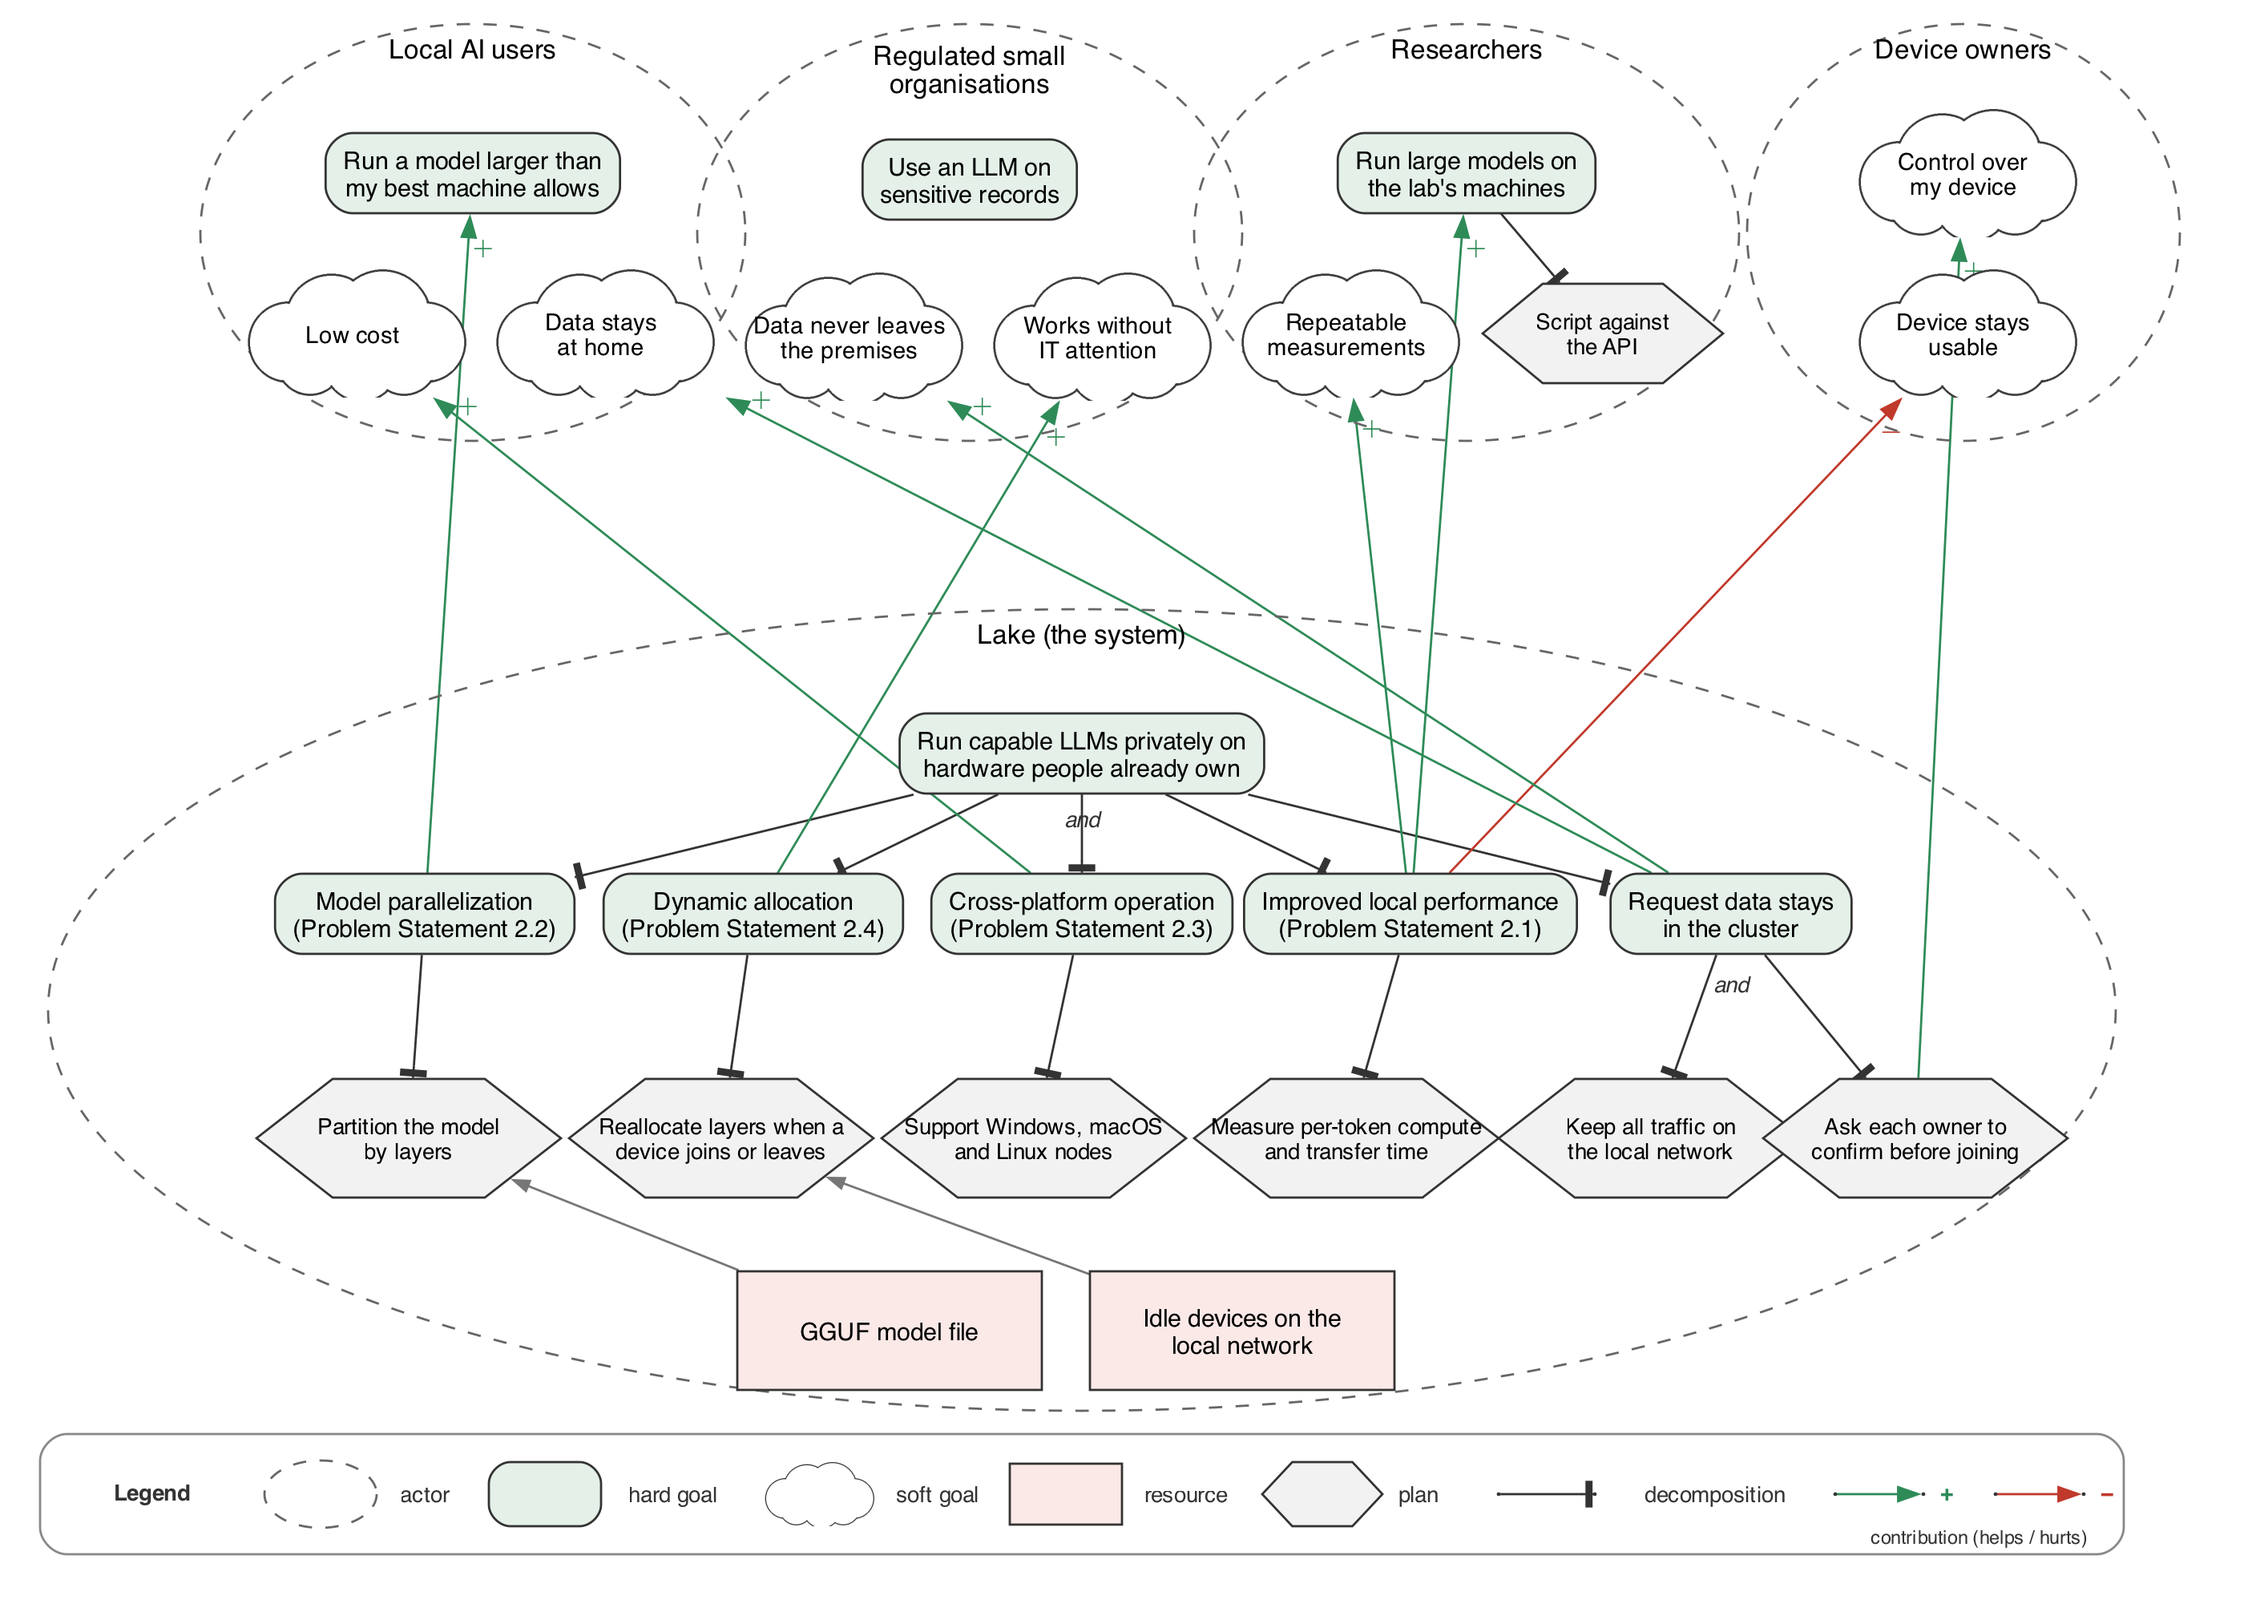
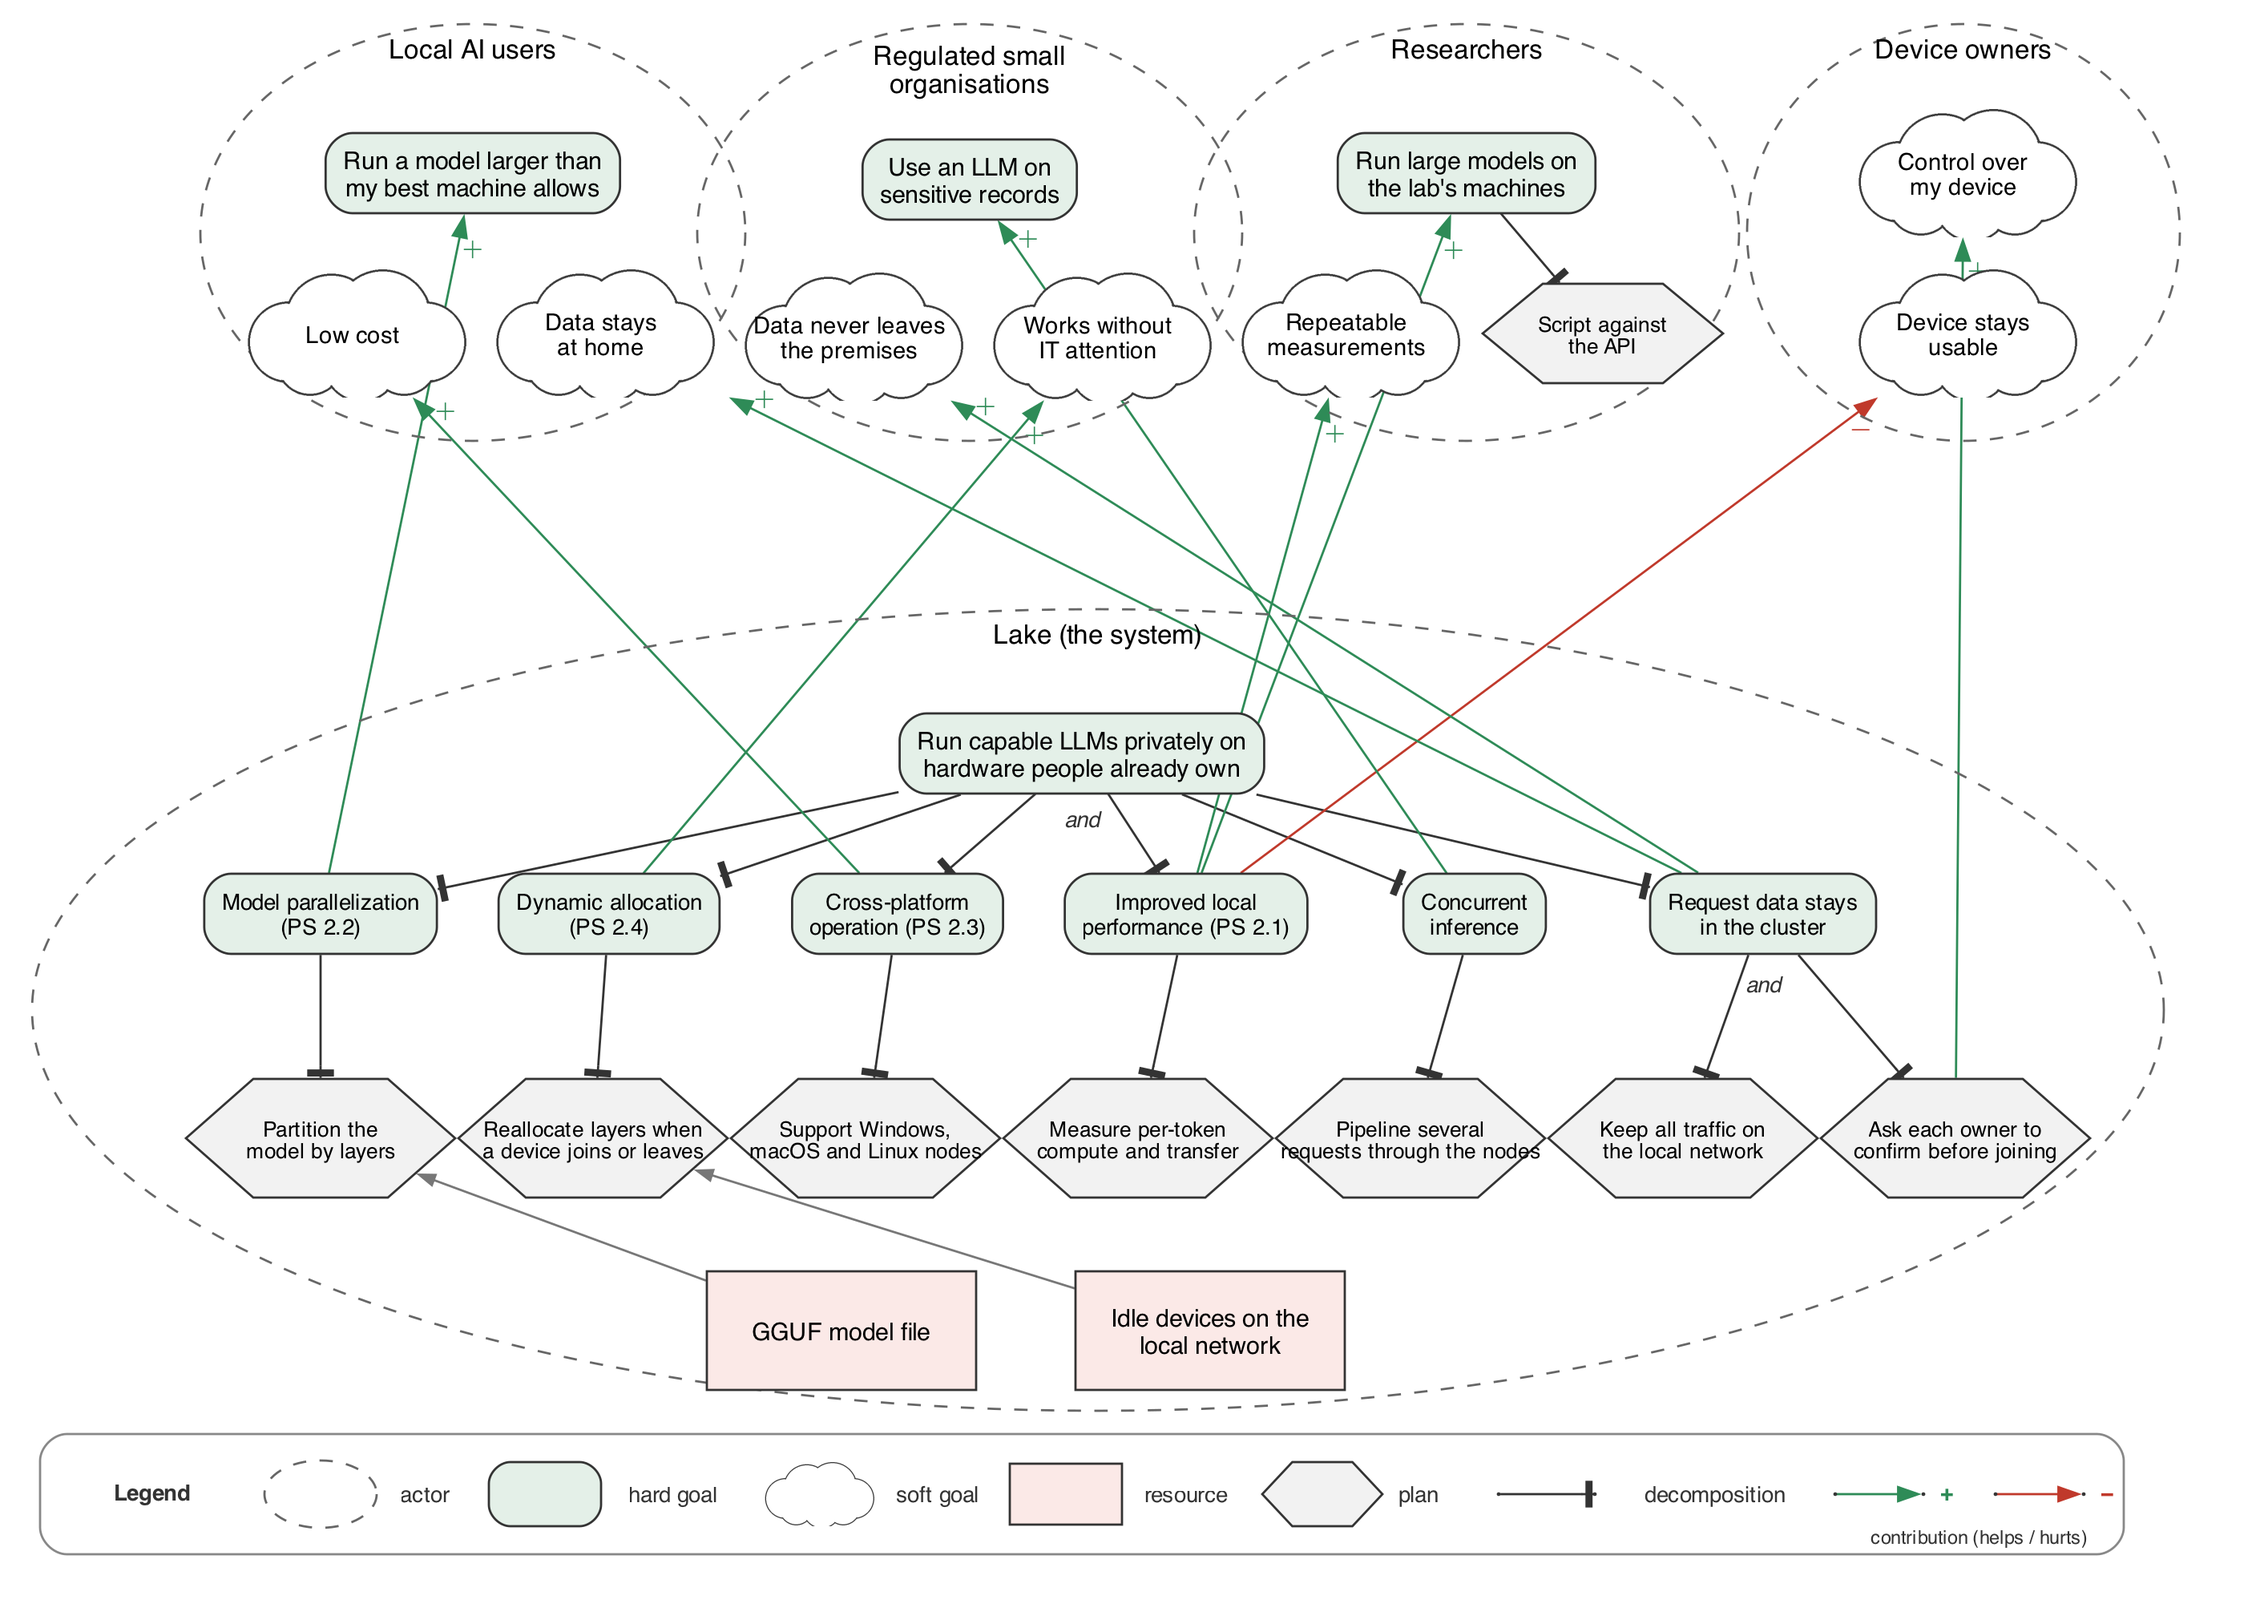
docs(SRS): treat concurrent inference as a goal in the Goals chapter
Matt proposed promoting Concurrent Inference from a stretch goal and Jinwoo
agreed (tracked in #149). Add it as a benefit in G.3 with its measure, note
in FR-G4-1-3 that several requests can be in flight, remove the
one-request-at-a-time exclusion from G.6, and add the goal and its plan to
the goal model.

diff --git a/docs/SRS/SRS.tex b/docs/SRS/SRS.tex
@@ -240,12 +240,11 @@ Mixed operating systems in one pool & N/A & N/A & Partly & Windows, macOS, Linux
 
 \subsection{Expected Benefits}\label{subsec:expected-benefits}
 
-The benefits below follow the four goals in the Problem Statement.
-Figure~\ref{fig:goal-model} is a goal model in the notation used in the
-requirements course: actors are dashed ellipses, hard goals rounded boxes,
-soft goals clouds, plans hexagons, and resources rectangles. Lines with a
-bar are AND decompositions, and green or red arrows show a Lake goal helping
-or hurting a stakeholder's goal. Each benefit below states the measure we
+The benefits below follow the four goals in the Problem Statement, plus
+concurrent inference, which the team is moving from a stretch goal to a
+goal because serving several requests at once is one of the main advantages
+of splitting a model by layers.
+Figure~\ref{fig:goal-model} is a goal model thats reflects this. Each benefit below states the measure we
 will use to check it, and the requirements that deliver them are in
 Section~\ref{subsec:functionality}.
 
@@ -295,12 +294,21 @@ chat interfaces and coding assistants can point at Lake instead of a cloud
 service with no changes on their side. The measure is an unmodified
 third-party client completing a session against Lake.
 
+\subsubsection*{Several users at once}
+While one request's token is being computed on one node, another request's
+token can be computed on the next, so a cluster can serve several users
+without each one waiting for the others. The measure is the number of
+requests the cluster can serve at once before any single request slows by
+more than the tolerance set in the Scalability requirement in
+Section~\ref{subsec:functionality}, and how that number grows with the
+number of nodes.
+
 \subsubsection*{Speed, where the split allows it}
-Response time and throughput (tokens per second) are secondary measures. A
-split model is not expected to beat a single device on a model that already
-fits on that device, since every token still passes through every layer in
-order. The gain is in capacity, and in throughput when several requests are
-served at once. The practitioner we interviewed (see
+Response time and throughput (tokens per second) for a single request are
+secondary measures. A split model is not expected to beat a single device
+on a model that already fits on that device, since every token still passes
+through every layer in order. The gain is in capacity, and in throughput
+when several requests are served at once. The practitioner we interviewed (see
 Section~\ref{subsubsec:g7-sources}) expected the same: a split over an office
 network would likely be slower than one good GPU for live chat, but worth it
 for background work such as re-indexing documents, OCR, and overnight test
@@ -333,7 +341,8 @@ Section~\ref{subsec:functionality}.
     node to node in layer order, and generated tokens stream back to the user
     one at a time. Each node keeps the key-value (KV) cache for its own
     layers, so nothing about the conversation has to be re-sent between
-    tokens.
+    tokens. Several requests can be in flight at once, each at a different
+    node, and their state is kept apart.
     \item \label{FR-G4-1-4}\textbf{FR-G4-1-4 Reallocate when the cluster
     changes.} When a node leaves, fails, or joins, the leader re-partitions
     the model across the nodes that remain and resumes serving, retrying any
@@ -533,6 +542,17 @@ Section~\ref{subsec:detailed-usage-scenarios}.
         \item The operator decides whether to swap a cable, remove a
         computer, or add one.
     \end{itemize}
+
+    \item \label{UC8}\textbf{UC8 Serve several users at once}
+    \begin{itemize}
+        \item Two or more users send prompts to the same cluster at the same
+        time, from their own tools.
+        \item Each sees their own response stream back, and none sees
+        another's prompt or answer.
+        \item Each response arrives about as fast as it would have alone,
+        until the cluster is busy enough that the operator sees requests
+        queue in the cluster view.
+    \end{itemize}
 \end{enumerate}
 
 \subsection{Limitations and Exclusions}\label{subsec:limitations-and-exclusions}
@@ -562,10 +582,6 @@ the System chapter record which of these may change.
     \item \emph{Wired connections first.} The first revision targets wired
     Ethernet. Wireless operation is a stretch goal because its latency and
     variability may make the split model too slow.
-    \item \emph{One request at a time.} Serving several users at once is a
-    stretch goal. The first release handles requests one after another; the
-    requirements in Section~\ref{subsec:functionality} that cover concurrent
-    requests apply only if that goal is taken on.
     \item \emph{No leader failover yet.} If the leader node leaves, the
     cluster shuts down. The Coordinator runs on every node so that a later
     release can promote another node to leader, but the first release does
